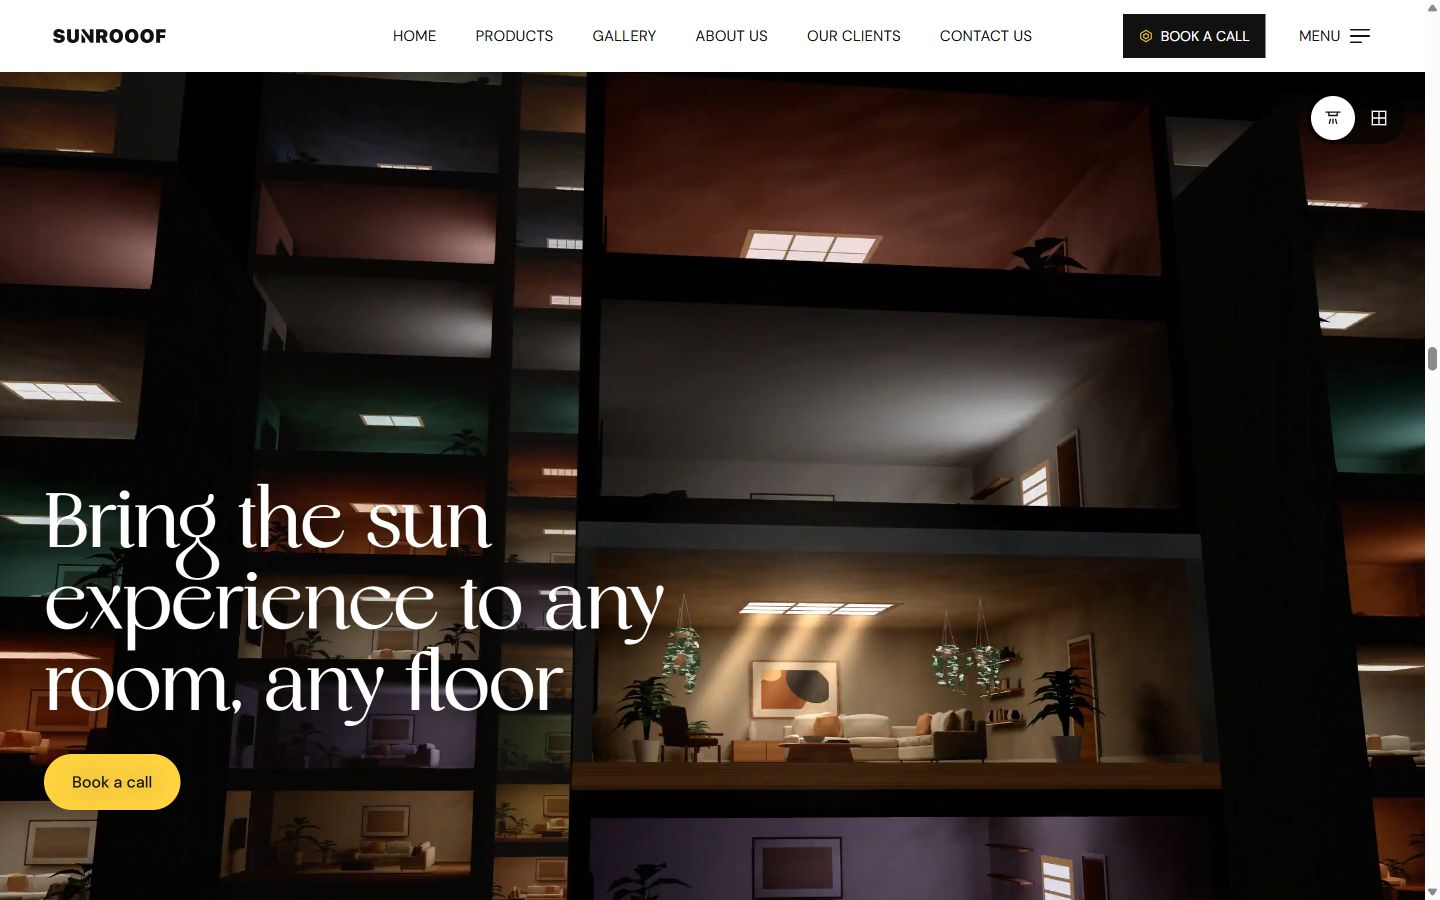
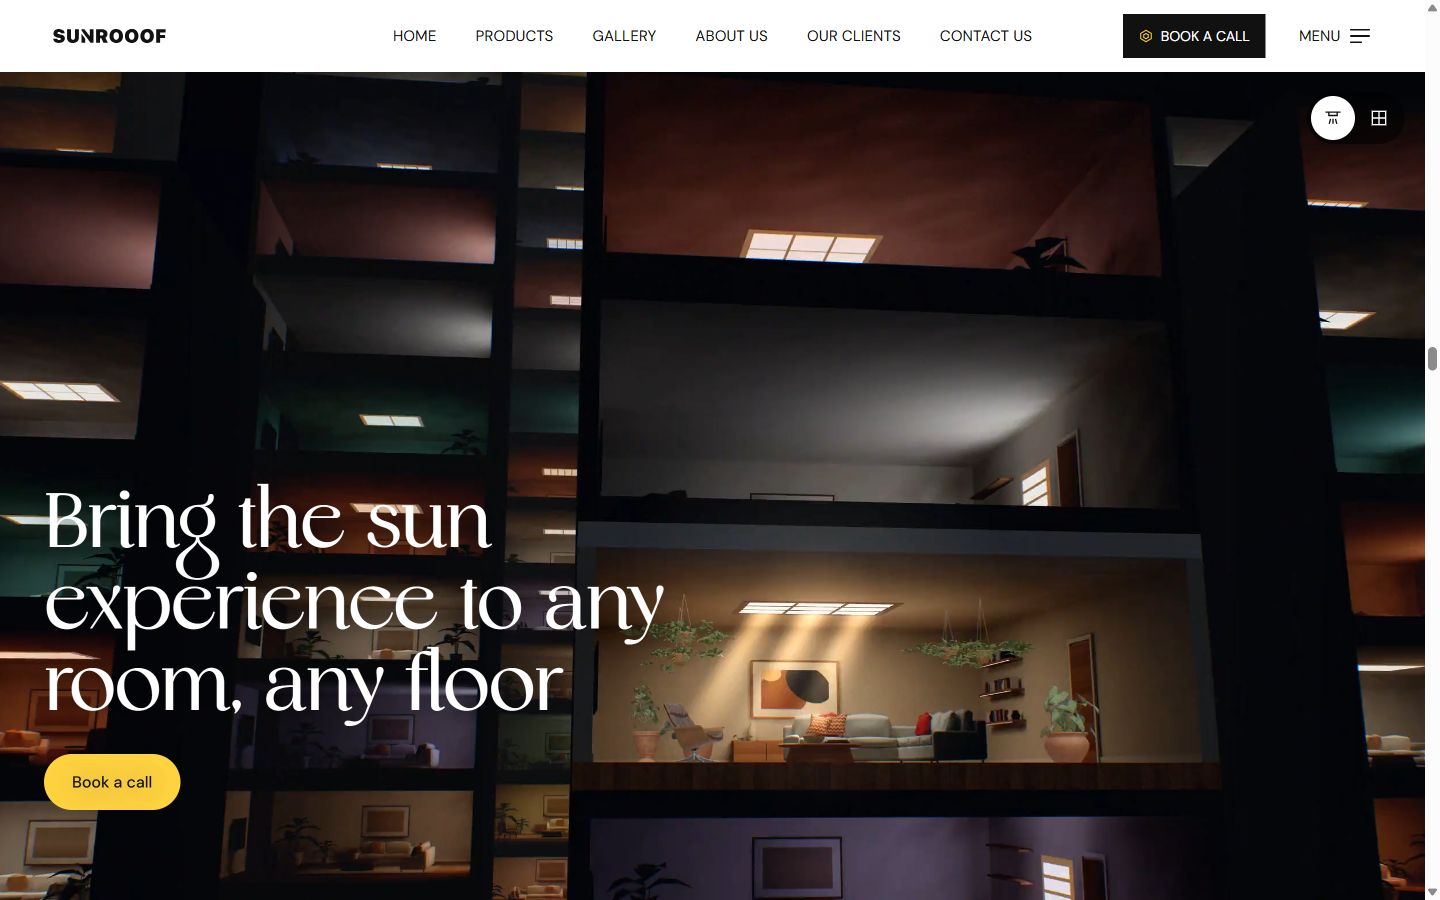
Scanned plants, chair, pillows and textures; painted walls; film grade
The main room uses Poly Haven scans (CC0). The sofa and coffee table stay as the room's own modern shapes, now with scanned fabric. Captured frames get a light filmic grade.

diff --git a/src/sites/sunrooof/three/world.ts b/src/sites/sunrooof/three/world.ts
@@ -1,8 +1,9 @@
 import * as THREE from 'three';
+import { GLTFLoader } from 'three/examples/jsm/loaders/GLTFLoader.js';
 import { RoomEnvironment } from 'three/examples/jsm/environments/RoomEnvironment.js';
 import { mergeGeometries } from 'three/examples/jsm/utils/BufferGeometryUtils.js';
 import { createProduct, panes, W } from './product';
-import { buildRoom, H, NO_CAST, PALETTE, PANEL, SIDE, WINDOW, X, ZF, type Key, type Mount } from './room';
+import { buildRoom, H, NO_CAST, PALETTE, PLANTS, FURNITURE, PANEL, SIDE, WINDOW, X, ZF, type Key, type Mount } from './room';
 import { artTexture, clamp, lerp, plasterTexture, sampleSky, seg, skyUniforms, smooth, up, wearTexture, weaveTexture, woodTexture } from './shared';
 
 const PZ = PANEL.z, MOUNT = PANEL.y, WINY = WINDOW.y, WZ = WINDOW.z, STAGE_Y = 1.84, STOREY = H + 0.85; // two 0.42 slabs plus a gap: overlapping slabs share a front face and flicker
@@ -66,12 +67,14 @@ export async function createWorld(canvas: HTMLCanvasElement, capture = false, mo
   const oakMap = woodTexture([150, 104, 66]); oakMap.repeat.set(.9, .9);
   const wear = wearTexture(); wear.repeat.set(.7, .7);
   const plaster = plasterTexture(), weave = weaveTexture(), rugMap = weaveTexture(); plaster.repeat.set(.4, .4); weave.repeat.set(7, 7); rugMap.repeat.set(3, 3);
+  const texLoader = new THREE.TextureLoader(), scan = (id: string, tile: number) => Promise.all(['diff', 'nor', 'rough'].map(n => texLoader.loadAsync(`${base}/sunrooof/tex/${id}_${n}.jpg`))).then(([map, normalMap, roughnessMap]) => { map.colorSpace = THREE.SRGBColorSpace; for (const t of [map, normalMap, roughnessMap]) { t.wrapS = t.wrapT = THREE.RepeatWrapping; t.repeat.setScalar(1 / tile); t.anisotropy = 8; } return { map, normalMap, roughnessMap, roughness: 1 }; });
+  const [plasterScan, woodScan, linenScan, velvetScan] = await Promise.all([scan('painted_plaster_wall', 2.5), scan('wood_floor', 2.2), scan('rough_linen', .6), scan('velour_velvet', .5)]);
   const glossy: THREE.MeshStandardMaterial[] = [], gloss = (m: THREE.MeshStandardMaterial) => { m.envMap = envTex; glossy.push(m); return m; };
   const col = (k: Key) => new THREE.Color(PALETTE[k]);
   const mats: Record<Key, THREE.Material> = {
-    wall: baked({ color: col('wall'), map: plaster, bumpMap: plaster, bumpScale: 1.4, roughness: .94 }), ceil: baked({ color: col('ceil'), map: plaster, bumpMap: plaster, bumpScale: 1.4, roughness: .94 }), trim: matte({ color: col('trim') }),
-    floor: gloss(baked({ map: floorMap, bumpMap: floorMap, bumpScale: 1.2, roughnessMap: wear, roughness: .9 })), rug: matte({ color: col('rug'), map: rugMap }),
-    linen: baked({ color: col('linen'), map: weave, bumpMap: weave, bumpScale: 2, roughness: .96 }), cushion: baked({ color: col('cushion'), map: weave, bumpMap: weave, bumpScale: 2, roughness: .96 }),
+    wall: baked({ color: col('wall'), normalMap: plasterScan.normalMap, normalScale: new THREE.Vector2(.45, .45), roughnessMap: plasterScan.roughnessMap, roughness: .95 }), ceil: baked({ color: col('ceil'), normalMap: plasterScan.normalMap, normalScale: new THREE.Vector2(.3, .3), roughnessMap: plasterScan.roughnessMap, roughness: .95 }), trim: matte({ color: col('trim') }),
+    floor: gloss(baked({ ...woodScan })), rug: baked({ color: '#efe4d2', ...linenScan }),
+    linen: baked({ color: '#f2e2c8', ...linenScan }), cushion: baked({ color: col('cushion'), ...velvetScan }),
     slat: gloss(baked({ map: slatMap, roughness: .55 })), oak: gloss(baked({ map: oakMap, roughness: .48 })), ink: gloss(baked({ color: col('ink'), roughness: .35 })),
     stone: gloss(baked({ color: col('stone'), roughness: .55 })), leaf: matte({ color: col('leaf'), side: THREE.DoubleSide }), soil: matte({ color: col('soil') }),
     art: matte({ map: artTexture() }), shade: matte({ color: col('shade'), side: THREE.DoubleSide }),
@@ -91,13 +94,23 @@ export async function createWorld(canvas: HTMLCanvasElement, capture = false, mo
   let seed = 11; const rn = () => (seed = seed * 16807 % 2147483647) / 2147483647;
   const hangMats = [new THREE.MeshStandardMaterial({ color: '#a4603c', roughness: .88, envMap: envTex }), new THREE.MeshStandardMaterial({ color: '#7a6a54', roughness: .9, envMap: envTex }), new THREE.MeshStandardMaterial({ color: '#1f4a1c', roughness: .5, side: THREE.DoubleSide, envMap: envTex })], [potM, cordM, leafM] = hangMats;
   const potG = new THREE.LatheGeometry([[0, 0], [.1, 0], [.15, .12], [.17, .24], [.18, .25], [.15, .25], [0, .2]].map(([a, b]) => new THREE.Vector2(a, b)), 28), cordG = new THREE.CylinderGeometry(.005, .005, 1, 6), leafG = new THREE.SphereGeometry(1, 8, 6).scale(.04, .004, .085), up3 = new THREE.Vector3(0, 1, 0), hold = new THREE.Object3D();
+  const baskets: number[][] = [];
   for (const [x, z, drop] of [[-3, -.4, 1.05], [3, -.4, .85], [-3.1, 1.7, .8], [3.1, 1.7, 1.1]]) {
     const y = H - drop - .25, pot = new THREE.Mesh(potG, potM); pot.position.set(x, y, z); hangers.add(pot);
     for (let i = 0; i < 3; i++) { const a = i / 3 * Math.PI * 2, from = new THREE.Vector3(x + Math.cos(a) * .17, y + .25, z + Math.sin(a) * .17), to = new THREE.Vector3(x, H, z), d = to.clone().sub(from), c = new THREE.Mesh(cordG, cordM); c.position.copy(from).addScaledVector(d, .5); c.scale.y = d.length(); c.quaternion.setFromUnitVectors(up3, d.normalize()); hangers.add(c); }
-    const leaves = new THREE.InstancedMesh(leafG, leafM, 150); let n = 0;
-    for (let v = 0; v < 9; v++) { const a = rn() * 6.28, len = .35 + rn() * .75, steps = Math.floor(150 / 9); for (let k = 0; k < steps && n < 150; k++) { const t = k / steps, r = .17 + .12 * Math.sin(Math.min(t * 4, 1) * 1.57); hold.position.set(x + Math.cos(a) * r + (rn() - .5) * .07, y + .3 - t * len - (t < .2 ? 0 : .08), z + Math.sin(a) * r + (rn() - .5) * .07); hold.rotation.set((rn() - .5) * 1.5, rn() * 6.28, (rn() - .5) * 1.5); hold.scale.setScalar(.7 + rn() * .6); hold.updateMatrix(); leaves.setMatrixAt(n++, hold.matrix); } }
-    leaves.count = n; leaves.frustumCulled = false; hangers.add(leaves);
+    baskets.push([x, y, z]);
   }
+  // scanned plants: photo textures, cut-out leaves that also cut their shadows
+  const gltf = new GLTFLoader(), model = (id: string, dir = 'plants') => gltf.loadAsync(`${base}/sunrooof/${dir}/${id}/${id}_2k.gltf`).then(g => { g.scene.traverse(o => { const m = o as THREE.Mesh; if (!m.isMesh) return; m.castShadow = m.receiveShadow = true; const mt = m.material as THREE.MeshStandardMaterial; mt.envMap = envTex; if (mt.alphaTest) mt.side = THREE.DoubleSide; if (!hangMats.includes(mt)) hangMats.push(mt); }); return g.scene; });
+  const [fern, ...pots] = await Promise.all(['fern_02', ...PLANTS.filter(p => mount !== 'side' || p[2] !== 'potted_plant_02').map(p => p[2])].map(id => model(id)));
+  pots.forEach((g, i) => { const [x, z, id, k, ry] = PLANTS.filter(p => mount !== 'side' || p[2] !== 'potted_plant_02')[i]; g.position.set(x, 0, z); if (id === 'calathea_orbifolia_01') { const pot = new THREE.Mesh(potG, potM); pot.scale.setScalar(2.2); pot.position.set(x, 0, z); pot.castShadow = pot.receiveShadow = true; room.add(pot); g.position.y = .5; } g.scale.setScalar(k); g.rotation.y = ry; room.add(g); });
+  baskets.forEach(([x, y, z], i) => { for (let j = 0; j < 3; j++) { const g = fern.clone(); g.position.set(x, y + .2 - j * .05, z); g.scale.setScalar(.7 + i * .04 - j * .08); g.rotation.set(j * .25, i * 1.9 + j * 2.1, 0); hangers.add(g); } });
+  // the light bake predates the furniture, so each piece gets a soft contact shadow
+  const blobCanvas = document.createElement('canvas'); blobCanvas.width = blobCanvas.height = 128; { const g = blobCanvas.getContext('2d')!, gr = g.createRadialGradient(64, 64, 8, 64, 64, 64); gr.addColorStop(0, 'rgba(0,0,0,.75)'); gr.addColorStop(.6, 'rgba(0,0,0,.35)'); gr.addColorStop(1, 'rgba(0,0,0,0)'); g.fillStyle = gr; g.fillRect(0, 0, 128, 128); }
+  const blobMat = new THREE.MeshBasicMaterial({ map: new THREE.CanvasTexture(blobCanvas), transparent: true, depthWrite: false, polygonOffset: true, polygonOffsetFactor: -2 }), box3 = new THREE.Box3(), size3 = new THREE.Vector3();
+  const ground = (g: THREE.Object3D) => { g.updateMatrixWorld(true); box3.setFromObject(g).getSize(size3); const c = box3.getCenter(new THREE.Vector3()), b = new THREE.Mesh(new THREE.PlaneGeometry(size3.x * 1.25, size3.z * 1.25).rotateX(-Math.PI / 2), blobMat); b.position.set(c.x, .028, c.z); room.add(b); };
+  (await Promise.all(FURNITURE.map(([id]) => model(id, 'models')))).forEach((g, i) => { const [id, x, z, ry] = FURNITURE[i]; g.rotation.y = ry; room.add(g); if (id === 'throw_pillows_01') { g.position.set(x, .66, z); return; } g.position.set(x, .024, z); ground(g); });
+  pots.forEach(ground);
   const sheenCanvas = document.createElement('canvas'); sheenCanvas.width = sheenCanvas.height = 256; { const g = sheenCanvas.getContext('2d')!, gr = g.createRadialGradient(128, 128, 0, 128, 128, 128); gr.addColorStop(0, 'rgba(255,255,255,1)'); gr.addColorStop(.5, 'rgba(255,255,255,.3)'); gr.addColorStop(1, 'rgba(255,255,255,0)'); g.fillStyle = gr; g.fillRect(0, 0, 256, 256); }
   const sheen = new THREE.Mesh(new THREE.PlaneGeometry(9, 7).rotateX(-Math.PI / 2), new THREE.MeshBasicMaterial({ map: new THREE.CanvasTexture(sheenCanvas), transparent: true, depthWrite: false, blending: THREE.AdditiveBlending, opacity: 0, toneMapped: false })); sheen.position.set(0, .004, PZ + .8); scene.add(sheen);
 
@@ -124,7 +137,7 @@ export async function createWorld(canvas: HTMLCanvasElement, capture = false, mo
   // the mask sits so close to the wall tops that shadow bias lets a line of sun through; cover them from higher up
   if (!wall) for (const s of [-1, 1]) { const cap = new THREE.Mesh(new THREE.BoxGeometry(1.4, .02, 40), mask.material); cap.position.set(s * (SIDE.x - .4), H + .6, 0); cap.castShadow = true; scene.add(cap); }
   // the shadow map draws the low-detail room: same silhouettes, a fraction of the triangles
-  const casters = new THREE.Mesh(mergeGeometries(buildRoom(.4, mount).filter(p => !NO_CAST.includes(p.key)).map(p => p.geo), false)!, mask.material); casters.castShadow = true; casters.matrixAutoUpdate = false; room.add(casters);
+  const casters = new THREE.Mesh(mergeGeometries(buildRoom(.1, mount).filter(p => !NO_CAST.includes(p.key)).map(p => p.geo), false)!, mask.material); casters.castShadow = true; casters.matrixAutoUpdate = false; room.add(casters);
 
   // ---- light shafts, dust, stage glow ----
   const beamU = { uBeam: { value: 0 }, uColor: { value: new THREE.Color(1, .85, .6) } };
@@ -215,6 +228,13 @@ export async function createWorld(canvas: HTMLCanvasElement, capture = false, mo
   let dpr = Math.min(devicePixelRatio, weak ? 1 : 1.5), width = 2, height = 2, portrait = false, time = 0, curTod = 0, lastSun = '';
   const v = new THREE.Vector3(), right = new THREE.Vector3(), a1 = new THREE.Vector3(), a2 = new THREE.Vector3(), dullC = new THREE.Color(.62, .68, .78), warm = new THREE.Color(1, .82, .55), paneSky = new THREE.Color(1, .86, .66), finalSun = new THREE.Vector3(.35, .62, -.2), finalSunW = new THREE.Vector3(.1, .34, -.8), sunlit = new THREE.Color(6, 5, 3.6); // the other storeys are in sunlight while the city is dark
 
+  // film finish for the captured frames: gentle bloom, a filmic curve, split toning and slight lens fringing
+  let finish: (() => void) | null = null;
+  if (capture) {
+    const size = new THREE.Vector2(), quad = new THREE.Mesh(new THREE.PlaneGeometry(2, 2), new THREE.ShaderMaterial({ uniforms: { tDiffuse: { value: null } }, depthTest: false, depthWrite: false, vertexShader: 'varying vec2 vUv; void main(){ vUv=uv; gl_Position=vec4(position.xy,0.,1.); }', fragmentShader: 'uniform sampler2D tDiffuse; varying vec2 vUv; void main(){ vec2 d=vUv-.5; vec3 c=texture2D(tDiffuse,vUv).rgb; c.r=texture2D(tDiffuse,vUv-d*.0012).r; c.b=texture2D(tDiffuse,vUv+d*.0012).b; c=mix(c,c*c*(3.-2.*c),.2); float l=dot(c,vec3(.2126,.7152,.0722)); c+=mix(vec3(-.008,0.,.014),vec3(.016,.006,-.012),smoothstep(.15,.85,l)); c=c*.97+.012; gl_FragColor=vec4(clamp(c,0.,1.),1.); }' })), quadScene = new THREE.Scene(), quadCam = new THREE.Camera();
+    quadScene.add(quad); let fb: THREE.FramebufferTexture | null = null;
+    finish = () => { renderer.getDrawingBufferSize(size); if (!fb || fb.image.width !== size.x || fb.image.height !== size.y) { fb?.dispose(); fb = new THREE.FramebufferTexture(size.x, size.y); quad.material.uniforms.tDiffuse.value = fb; } renderer.copyFramebufferToTexture(fb); renderer.render(quadScene, quadCam); };
+  }
   function resize() {
     width = canvas.clientWidth; height = canvas.clientHeight; portrait = width < height;
     renderer.setPixelRatio(dpr); renderer.setSize(width, height, false); bakeU.uRes.value.set(width * dpr, height * dpr);
@@ -288,7 +308,7 @@ export async function createWorld(canvas: HTMLCanvasElement, capture = false, mo
   return {
     update, resize, labelAt, layers,
     get tod() { return curTod; },
-    render: () => renderer.render(scene, camera),
+    render: () => { renderer.render(scene, camera); finish?.(); },
     /** Step down on slow machines, never below one render pixel per CSS pixel. Returns false when nothing is left to drop. */
     degrade() {
       if (dpr > 1) { dpr = 1; resize(); return true; }

diff --git a/src/sites/sunrooof/three/room.ts b/src/sites/sunrooof/three/room.ts
@@ -19,6 +19,12 @@ export type Key = keyof typeof PALETTE;
 export const NO_CAST: Key[] = ['wall', 'ceil', 'floor', 'trim', 'rug', 'slat', 'ink', 'art', 'soil', 'shade'];
 
 /** @param d target edge length in metres. Large values give the low-detail version used for the other storeys. */
+/** Where the main room's plants stand: x, z, model, scale, turn. */
+export const PLANTS: [number, number, string, number, number][] = [[-3.55, -2.85, 'potted_plant_01', 1.45, .6], [3.85, 4.1, 'potted_plant_02', 1.7, 2.1], [-2.3, -3.4, 'calathea_orbifolia_01', 1.5, 1.2]];
+
+/** Scanned furniture in the main room: model, x, z, turn. */
+export const FURNITURE: [string, number, number, number][] = [['throw_pillows_01', .25, -.62, .15], ['mid_century_lounge_chair', -2.9, 2, .9]];
+
 export function buildRoom(d: number, mount: Mount = 'ceiling') {
   let seed = 7; const rnd = (a = 0, b = 1) => { seed = (seed * 1664525 + 1013904223) >>> 0; return a + (seed / 4294967296) * (b - a); };
   const fine = d < 0.2, bins = new Map<Key, THREE.BufferGeometry[]>();
@@ -90,12 +96,15 @@ export function buildRoom(d: number, mount: Mount = 'ceiling') {
     for (let i = 0; i < 5; i++) add('ink', new THREE.SphereGeometry(0.04, 10, 8), -0.3 + rnd(-0.08, 0.08), 0.49, 0.85 + rnd(-0.08, 0.08));
   }
 
-  // ---- lounge chair ----
+  // ---- lounge chair: the main room uses a scanned model instead (FURNITURE) ----
+  if (!fine) {
   const cx = -3, cz = 2.3, cr = 0.55, at = (lx: number, lz: number): [number, number] => [cx + lx * Math.cos(cr) + lz * Math.sin(cr), cz - lx * Math.sin(cr) + lz * Math.cos(cr)];
   for (const [lx, lz] of [[-0.4, 0.38], [0.4, 0.38], [-0.4, -0.38], [0.4, -0.38]]) { const [ax, az] = at(lx, lz); add('oak', soft(0.05, 0.36, 0.05, 0.015), ax, 0.18, az, cr); }
   for (const s of [-1, 1]) { const [ax, az] = at(0, s * 0.42); add('oak', soft(0.9, 0.05, 0.06, 0.015), ax, 0.56, az, cr); }
   let [ax, az] = at(0, 0); add('cushion', soft(0.8, 0.15, 0.78, 0.06, 0.03), ax, 0.42, az, cr);
   [ax, az] = at(-0.4, 0); add('cushion', soft(0.14, 0.62, 0.76, 0.06, 0.04), ax, 0.76, az, cr, 0, 0.2);
+
+  }
 
   // ---- back wall: art and console ----
   const artY = 1.85;
@@ -142,7 +151,7 @@ export function buildRoom(d: number, mount: Mount = 'ceiling') {
       g.computeVertexNormals(); add('leaf', g, x + Math.cos(a) * 0.03, base, z + Math.sin(a) * 0.03, -a + Math.PI / 2, -lean - Math.PI / 2 + 1.2);
     }
   };
-  plant(-3.55, -2.85, 1.15); if (mount !== 'side') plant(3.85, 4.1, 1); plant(-2.3, ZB + 0.8, 0.6);
+  if (!fine) { plant(-3.55, -2.85, 1.15); if (mount !== 'side') plant(3.85, 4.1, 1); plant(-2.3, ZB + 0.8, 0.6); }
 
   const parts = (Object.keys(PALETTE) as Key[]).filter(k => bins.has(k)).map(key => ({ key, geo: mergeGeometries(bins.get(key)!, false)! }));
   return parts;
